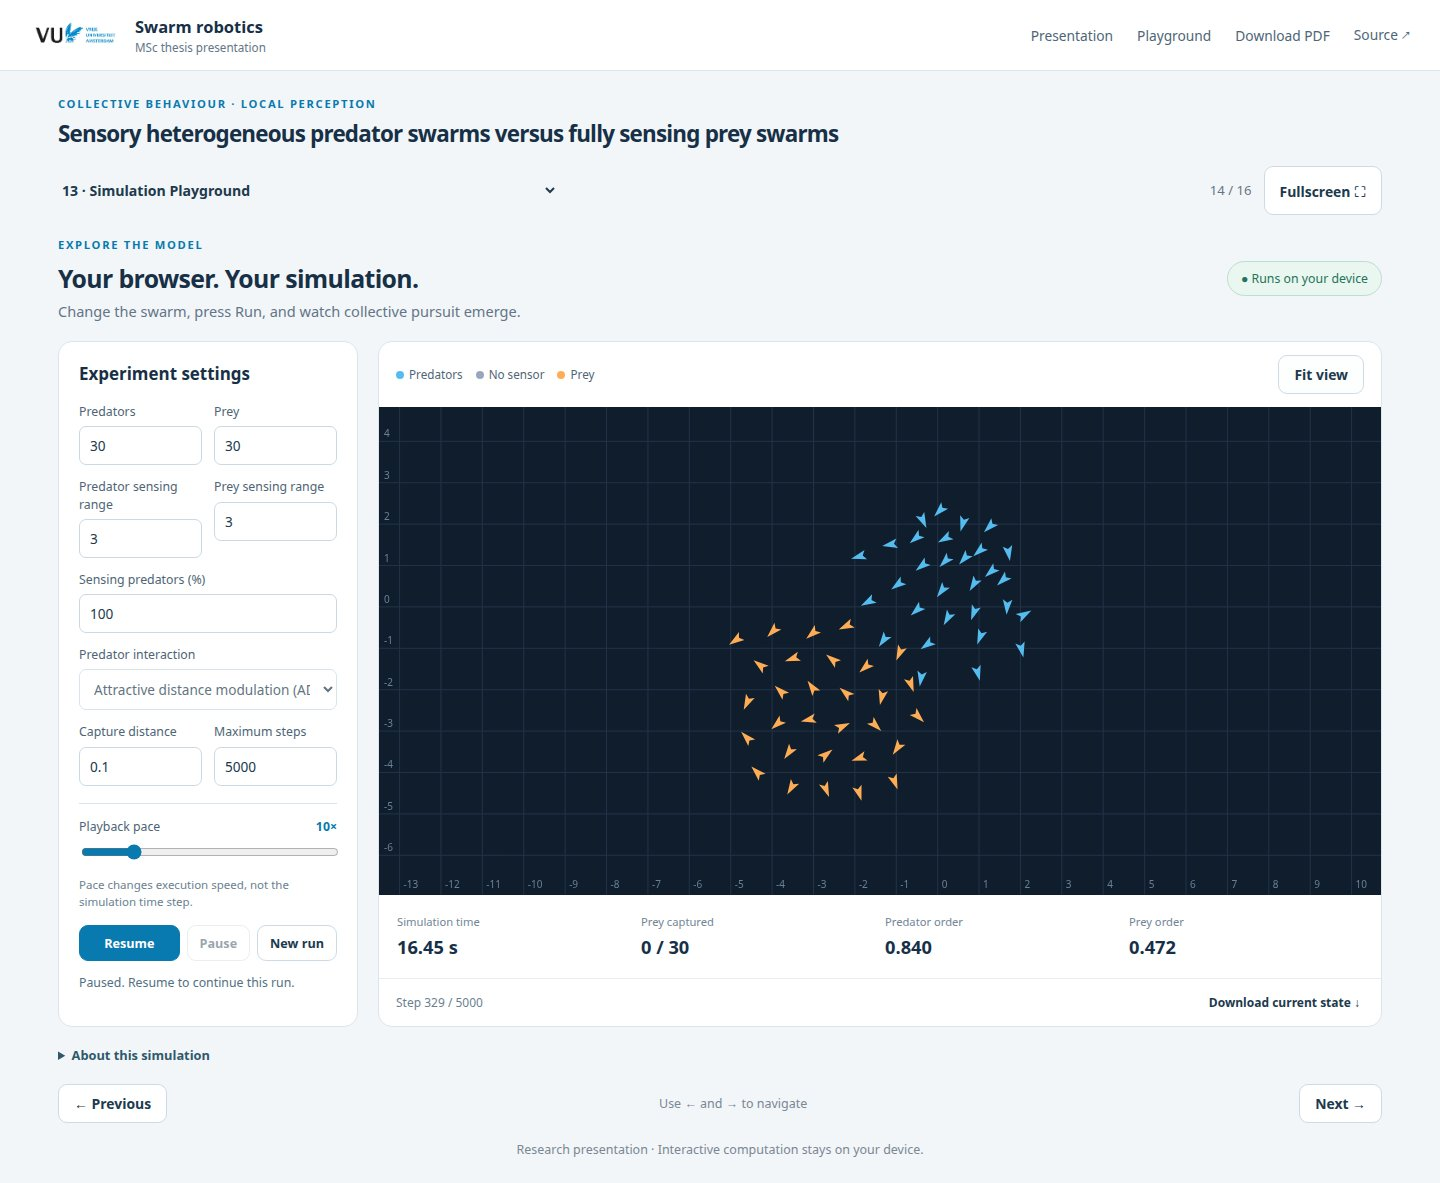
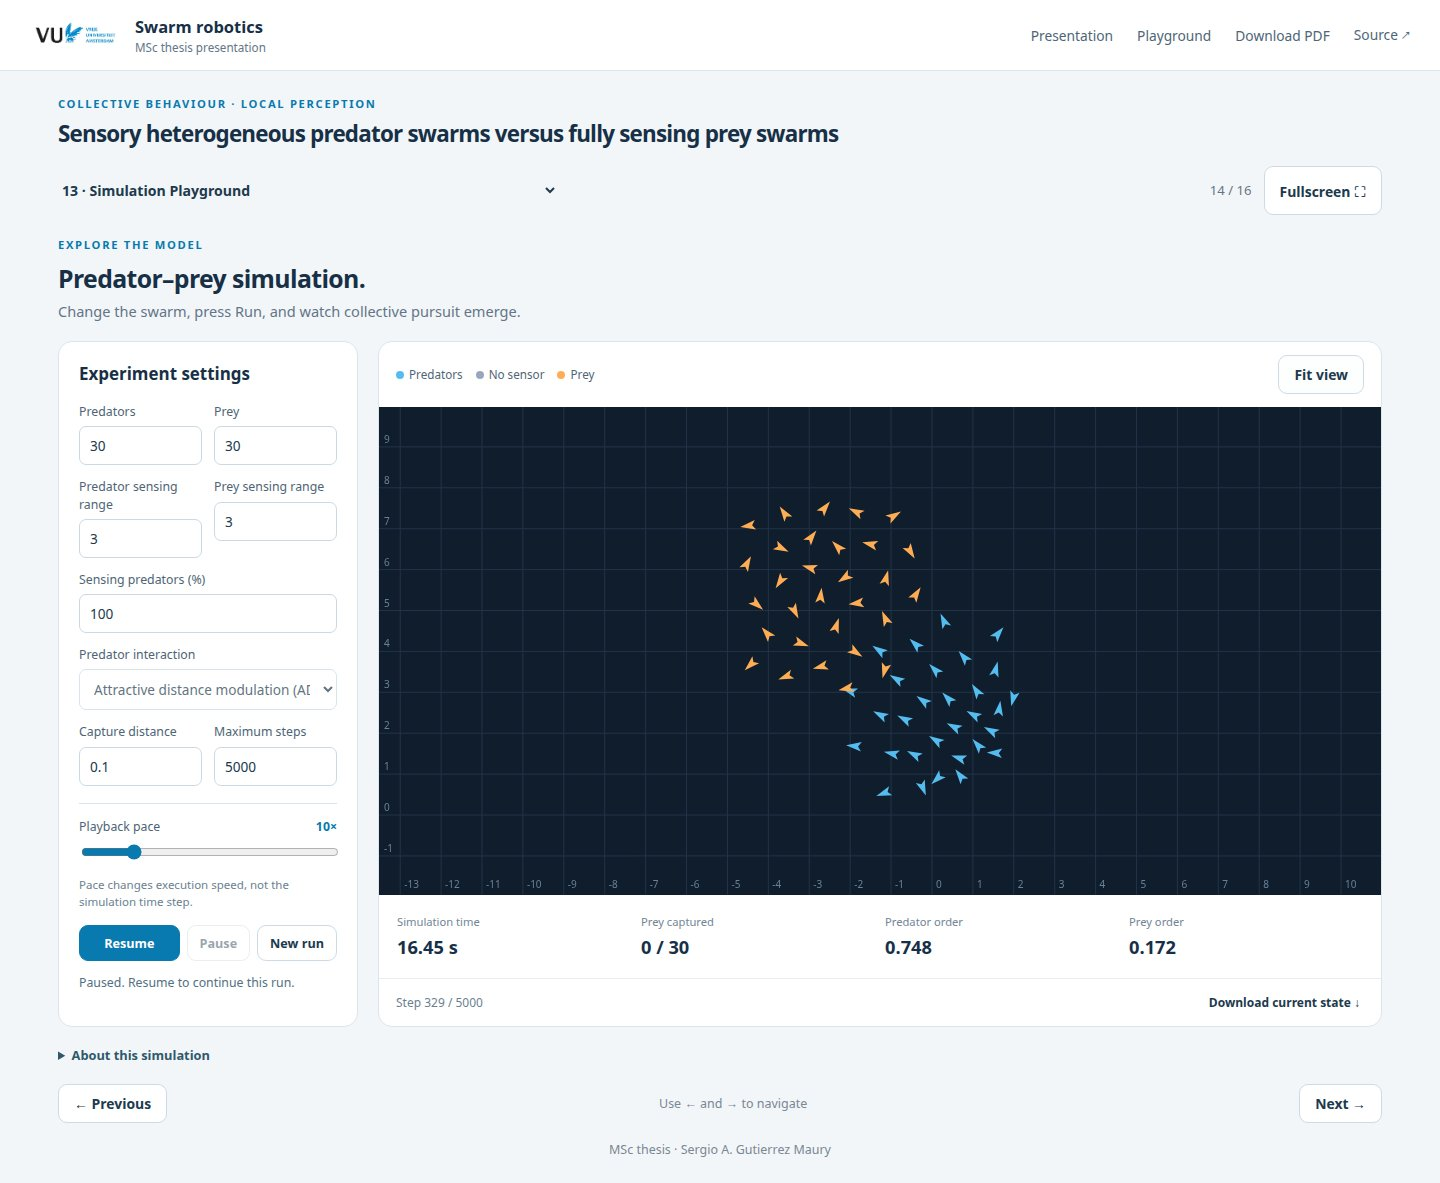
Remove local-computation messaging from the presentation

diff --git a/web/style.css b/web/style.css
@@ -5,8 +5,8 @@
 .slide-content div:has(> img + img) > img { width: calc(50% - 6px); height: auto; }
 *{box-sizing:border-box}body{margin:0}a{color:#087aa9;text-underline-offset:3px}button,input,select{font:inherit}button,select{cursor:pointer}button{background:#fff;border:1px solid #cedbe4;border-radius:9px;padding:9px 15px;color:#20394d;font-size:.87rem;font-weight:600;transition:background .15s}button:hover:not(:disabled){background:#eaf4f9}button:disabled{opacity:.45;cursor:default}button:focus-visible,a:focus-visible,input:focus-visible,select:focus-visible,summary:focus-visible{outline:3px solid #24a6d5;outline-offset:3px}.primary{background:#087aaf;color:white;border-color:#087aaf}.primary:hover:not(:disabled){background:#06688f}input,select{border:1px solid #cbd9e2;border-radius:7px;padding:9px 10px;background:white;color:#20394d;min-width:0}input[type=range]{padding:0;accent-color:var(--blue)}[hidden]{display:none!important}
 .site-header{background:#fff;border-bottom:1px solid var(--line);padding:15px max(24px,calc((100vw - 1380px)/2));display:flex;align-items:center;justify-content:space-between;gap:24px}.brand{display:flex;align-items:center;gap:14px;color:#173047;text-decoration:none;font-weight:750;font-size:1.03rem;white-space:nowrap}.brand img{width:91px;max-height:40px;object-fit:contain}.brand-sub{display:block;color:var(--muted);font-weight:400;font-size:.73rem;margin-top:2px}.site-header nav{display:flex;gap:24px;align-items:center;font-size:.86rem}.site-header nav a{color:#4f6577;text-decoration:none}.site-header nav a:hover{color:var(--blue)}main{max-width:1380px;padding:0 28px;margin:auto}.deck-heading{padding:34px 0 26px}.eyebrow{font-size:.7rem;letter-spacing:.15em;font-weight:750;color:#087aaf;margin:0 0 10px}h1{font-size:clamp(1.45rem,2.6vw,2.25rem);letter-spacing:-.035em;line-height:1.2;margin:0;max-width:1050px}h2{letter-spacing:-.025em;font-size:1.55rem;line-height:1.3}h3{font-size:1.06rem}.byline{font-size:.87rem;color:var(--muted);margin:13px 0 0}.slide-toolbar{display:flex;align-items:center;gap:12px;padding:0 0 12px}.slide-toolbar select{max-width:500px;font-size:.88rem;background:transparent;border:0;padding-left:0;font-weight:650}.slide-toolbar #slide-counter{margin-left:auto;color:var(--muted);font-size:.82rem;white-space:nowrap}.slide{background:#fff;border:1px solid var(--line);border-radius:15px;padding:28px 34px;min-height:360px;box-shadow:0 5px 22px #17304704}#slide-title{margin:0 0 22px;border-bottom:1px solid #e6edf2;padding-bottom:19px}#slide-title a{color:inherit;text-decoration:none}.slide-content{font-size:clamp(1rem,1.18vw,1.14rem);line-height:1.75}.slide-content [style*="font-size"]{font-size:inherit!important}.slide-content img{max-width:100%!important;max-height:410px!important;object-fit:contain;border-radius:6px;display:block;margin:10px auto!important}.slide-content a img{max-height:22px!important;display:inline-block;vertical-align:middle}.slide-content iframe{width:100%;max-width:100%;border:0;background:#fff;min-height:380px}.slide-content li{padding:5px 0}.slide-content p{margin-top:0}.slide-content h3{font-size:1.16rem;color:#173047;margin:0 0 10px}.slide-content .katex-display{overflow-x:auto;overflow-y:hidden;padding:12px 0}.slide-content .math-block{overflow-x:auto}.slide-content .katex{font-size:1.04em}.deck-footer{display:flex;justify-content:space-between;align-items:center;padding:18px 0;gap:15px}.deck-footer span,.site-footnote{color:#798795;font-size:.78rem}.site-footnote{text-align:center;margin:0 0 25px}.sr-only{position:absolute;width:1px;height:1px;padding:0;margin:-1px;overflow:hidden;clip:rect(0,0,0,0);white-space:nowrap;border:0}
-.playground-heading{display:flex;align-items:center;justify-content:space-between;margin:8px 0 20px;gap:20px}.playground-heading h2{margin:0 0 7px}.playground-heading p:not(.eyebrow){color:var(--muted);font-size:.91rem;margin:0}.local-badge{border:1px solid #b9dfd0;background:#e9f7f0;border-radius:30px;padding:8px 13px;color:#267359;font-size:.77rem;white-space:nowrap}.playground-grid{display:grid;grid-template-columns:300px minmax(0,1fr);gap:20px}.controls,.arena-panel{background:white;border:1px solid var(--line);border-radius:14px;overflow:hidden}.controls{padding:20px}.controls h3{margin:0 0 18px}.controls fieldset{border:0;padding:0;margin:0;min-width:0}.controls label{font-size:.77rem;line-height:1.4;color:#4e6476;display:flex;flex-direction:column;gap:6px;margin-bottom:13px}.controls input,.controls select{width:100%;font-size:.85rem}.field-pair{display:grid;grid-template-columns:1fr 1fr;gap:12px}.controls .pace-label{position:relative;border-top:1px solid var(--line);padding-top:14px;margin-top:4px}.pace-label output{position:absolute;right:0;top:14px;font-weight:700;color:var(--blue)}.hint{font-size:.72rem;color:#6b7f91;line-height:1.5;margin:0 0 15px}.run-buttons{display:flex;gap:7px;flex-wrap:wrap}.run-buttons button{font-size:.79rem;padding:8px 12px}.run-buttons #run{flex:1}#run-status{font-size:.77rem;color:#527083;min-height:2.6em;line-height:1.5;margin-bottom:0}#simulation-error{font-size:.79rem;color:#a82d2d;background:#fff0ed;padding:10px;border-radius:7px}.arena-panel{display:flex;flex-direction:column;min-width:0}.arena-toolbar{padding:13px 17px;display:flex;align-items:center;justify-content:space-between;gap:8px}.legend{display:flex;gap:13px;flex-wrap:wrap;font-size:.73rem;color:#4f6477}.legend span{display:flex;gap:5px;align-items:center}.legend i{display:inline-block;width:8px;height:8px;border-radius:50%}.pred-dot{background:#55bcef}.blind-dot{background:#99a7bd}.prey-dot{background:#ffad55}#arena{width:100%;height:440px;min-height:300px;background:#101d2d;flex:1;display:block;touch-action:none}.metrics{display:grid;grid-template-columns:repeat(4,1fr);gap:10px;padding:19px 18px;border-bottom:1px solid #e8eef3}.metrics span{display:block;color:#728496;font-size:.7rem;margin-bottom:6px}.metrics strong{font-variant-numeric:tabular-nums;font-size:1.14rem;font-weight:650}.arena-footer{padding:11px 17px;display:flex;justify-content:space-between;align-items:center;gap:10px;font-size:.75rem;color:#6b7f91}.arena-footer button{font-size:.75rem;border:0;padding:4px}.model-note{color:#637589;font-size:.8rem;line-height:1.65;margin-top:18px}.model-note summary{cursor:pointer;color:#2f586d;font-weight:600}.model-note p{max-width:1000px}.playground-mode .deck-heading{padding:25px 0 18px}.playground-mode h1{font-size:1.4rem}.playground-mode .wide-only{display:none}.playground-mode .byline{display:none}.playground-mode .slide{display:none}.playground-mode .slide-toolbar{margin-bottom:10px}
-@media(min-width:1500px){#arena{height:510px}}@media(max-width:900px){.site-header{padding:14px 20px}.site-header nav{gap:14px}.site-header nav .github{display:none}.brand-sub{display:none}.playground-grid{grid-template-columns:260px minmax(0,1fr);gap:13px}.controls{padding:16px}.metrics{grid-template-columns:1fr 1fr}.slide{padding:22px}.slide-content>div[style*="flex"]{flex-wrap:wrap}.slide-content>div>div{min-width:220px}}@media(max-width:680px){main{padding:0 15px}.brand>span{display:none}.brand img{width:72px}.site-header{gap:12px;padding:12px 15px}.site-header nav{font-size:.75rem;gap:13px}.deck-heading{padding:25px 0 20px}.wide-only{display:none}.slide-toolbar select{max-width:64%;font-size:.8rem}.slide-toolbar button{font-size:.72rem;padding:6px}.slide{padding:18px;min-height:300px}.slide-content>div{display:block!important}.slide-content img{max-height:290px!important}.slide-content iframe{height:450px!important;min-height:280px}.playground-grid{grid-template-columns:1fr}.arena-panel{order:-1}#arena{height:340px;flex:auto}.playground-heading{align-items:flex-start;flex-direction:column;gap:10px}.playground-heading h2{font-size:1.4rem}.local-badge{font-size:.7rem}.metrics{grid-template-columns:repeat(4,1fr);padding:14px 10px;gap:6px}.metrics span{font-size:.6rem}.metrics strong{font-size:.93rem}.controls fieldset{display:grid;grid-template-columns:1fr 1fr;gap:0 14px}.controls fieldset .field-pair{grid-column:1/-1}.deck-footer span{display:none}.model-note{font-size:.77rem}}@media(prefers-reduced-motion:reduce){*{scroll-behavior:auto!important;transition:none!important}}@media print{.site-header,.slide-toolbar,.deck-footer,.site-footnote{display:none}.slide{border:0;box-shadow:none}.deck-heading{padding-top:0}}
+.playground-heading{display:flex;align-items:center;justify-content:space-between;margin:8px 0 20px;gap:20px}.playground-heading h2{margin:0 0 7px}.playground-heading p:not(.eyebrow){color:var(--muted);font-size:.91rem;margin:0}.playground-grid{display:grid;grid-template-columns:300px minmax(0,1fr);gap:20px}.controls,.arena-panel{background:white;border:1px solid var(--line);border-radius:14px;overflow:hidden}.controls{padding:20px}.controls h3{margin:0 0 18px}.controls fieldset{border:0;padding:0;margin:0;min-width:0}.controls label{font-size:.77rem;line-height:1.4;color:#4e6476;display:flex;flex-direction:column;gap:6px;margin-bottom:13px}.controls input,.controls select{width:100%;font-size:.85rem}.field-pair{display:grid;grid-template-columns:1fr 1fr;gap:12px}.controls .pace-label{position:relative;border-top:1px solid var(--line);padding-top:14px;margin-top:4px}.pace-label output{position:absolute;right:0;top:14px;font-weight:700;color:var(--blue)}.hint{font-size:.72rem;color:#6b7f91;line-height:1.5;margin:0 0 15px}.run-buttons{display:flex;gap:7px;flex-wrap:wrap}.run-buttons button{font-size:.79rem;padding:8px 12px}.run-buttons #run{flex:1}#run-status{font-size:.77rem;color:#527083;min-height:2.6em;line-height:1.5;margin-bottom:0}#simulation-error{font-size:.79rem;color:#a82d2d;background:#fff0ed;padding:10px;border-radius:7px}.arena-panel{display:flex;flex-direction:column;min-width:0}.arena-toolbar{padding:13px 17px;display:flex;align-items:center;justify-content:space-between;gap:8px}.legend{display:flex;gap:13px;flex-wrap:wrap;font-size:.73rem;color:#4f6477}.legend span{display:flex;gap:5px;align-items:center}.legend i{display:inline-block;width:8px;height:8px;border-radius:50%}.pred-dot{background:#55bcef}.blind-dot{background:#99a7bd}.prey-dot{background:#ffad55}#arena{width:100%;height:440px;min-height:300px;background:#101d2d;flex:1;display:block;touch-action:none}.metrics{display:grid;grid-template-columns:repeat(4,1fr);gap:10px;padding:19px 18px;border-bottom:1px solid #e8eef3}.metrics span{display:block;color:#728496;font-size:.7rem;margin-bottom:6px}.metrics strong{font-variant-numeric:tabular-nums;font-size:1.14rem;font-weight:650}.arena-footer{padding:11px 17px;display:flex;justify-content:space-between;align-items:center;gap:10px;font-size:.75rem;color:#6b7f91}.arena-footer button{font-size:.75rem;border:0;padding:4px}.model-note{color:#637589;font-size:.8rem;line-height:1.65;margin-top:18px}.model-note summary{cursor:pointer;color:#2f586d;font-weight:600}.model-note p{max-width:1000px}.playground-mode .deck-heading{padding:25px 0 18px}.playground-mode h1{font-size:1.4rem}.playground-mode .wide-only{display:none}.playground-mode .byline{display:none}.playground-mode .slide{display:none}.playground-mode .slide-toolbar{margin-bottom:10px}
+@media(min-width:1500px){#arena{height:510px}}@media(max-width:900px){.site-header{padding:14px 20px}.site-header nav{gap:14px}.site-header nav .github{display:none}.brand-sub{display:none}.playground-grid{grid-template-columns:260px minmax(0,1fr);gap:13px}.controls{padding:16px}.metrics{grid-template-columns:1fr 1fr}.slide{padding:22px}.slide-content>div[style*="flex"]{flex-wrap:wrap}.slide-content>div>div{min-width:220px}}@media(max-width:680px){main{padding:0 15px}.brand>span{display:none}.brand img{width:72px}.site-header{gap:12px;padding:12px 15px}.site-header nav{font-size:.75rem;gap:13px}.deck-heading{padding:25px 0 20px}.wide-only{display:none}.slide-toolbar select{max-width:64%;font-size:.8rem}.slide-toolbar button{font-size:.72rem;padding:6px}.slide{padding:18px;min-height:300px}.slide-content>div{display:block!important}.slide-content img{max-height:290px!important}.slide-content iframe{height:450px!important;min-height:280px}.playground-grid{grid-template-columns:1fr}.arena-panel{order:-1}#arena{height:340px;flex:auto}.playground-heading{align-items:flex-start;flex-direction:column;gap:10px}.playground-heading h2{font-size:1.4rem}.metrics{grid-template-columns:repeat(4,1fr);padding:14px 10px;gap:6px}.metrics span{font-size:.6rem}.metrics strong{font-size:.93rem}.controls fieldset{display:grid;grid-template-columns:1fr 1fr;gap:0 14px}.controls fieldset .field-pair{grid-column:1/-1}.deck-footer span{display:none}.model-note{font-size:.77rem}}@media(prefers-reduced-motion:reduce){*{scroll-behavior:auto!important;transition:none!important}}@media print{.site-header,.slide-toolbar,.deck-footer,.site-footnote{display:none}.slide{border:0;box-shadow:none}.deck-heading{padding-top:0}}
 
 /* Keep canvas bitmap dimensions from feeding back into the flex layout. */
 .arena-view { position: relative; flex: 1; min-height: 440px; }

diff --git a/web/index.html b/web/index.html
@@ -3,7 +3,7 @@
 <head>
   <meta charset="utf-8">
   <meta name="viewport" content="width=device-width, initial-scale=1">
-  <meta name="description" content="Sergio A. Gutierrez Maury's predator–prey swarm research presentation and interactive simulator. Runs on your computer, in your browser.">
+  <meta name="description" content="Sergio A. Gutierrez Maury's predator–prey swarm research presentation and interactive simulator.">
   <title>Predator–prey dynamics · Thesis presentation</title>
   <link rel="icon" href="./assets/favicon.ico">
   <link rel="stylesheet" href="./vendor/katex.min.css">
@@ -20,7 +20,7 @@
     <div class="slide-toolbar"><label for="slide-select" class="sr-only">Choose slide</label><select id="slide-select"></select><span id="slide-counter" aria-live="polite"></span><button id="fullscreen" title="Enter fullscreen" type="button">Fullscreen ⛶</button></div>
     <article class="slide" aria-labelledby="slide-title"><h2 id="slide-title"></h2><div id="slide-content" class="slide-content"><p>Loading presentation…</p></div></article>
     <section id="playground" hidden aria-label="Simulation playground">
-      <div class="playground-heading"><div><p class="eyebrow">EXPLORE THE MODEL</p><h2>Your browser. Your simulation.</h2><p>Change the swarm, press Run, and watch collective pursuit emerge.</p></div><span class="local-badge">● Runs on your device</span></div>
+      <div class="playground-heading"><div><p class="eyebrow">EXPLORE THE MODEL</p><h2>Predator–prey simulation.</h2><p>Change the swarm, press Run, and watch collective pursuit emerge.</p></div></div>
       <div class="playground-grid">
         <form id="simulation-controls" class="controls">
           <h3>Experiment settings</h3>
@@ -34,16 +34,16 @@
           <label class="pace-label">Playback pace <output id="pace-label">10×</output><input id="pace" type="range" min="1" max="50" value="10" step="1"></label>
           <p class="hint">Pace changes execution speed, not the simulation time step.</p>
           <div class="run-buttons"><button class="primary" id="run" type="submit" disabled>Loading simulator…</button><button id="pause" type="button" disabled>Pause</button><button id="reset" type="button" disabled>New run</button></div>
-          <p id="run-status" role="status" aria-live="polite">Preparing local simulator.</p><p id="simulation-error" role="alert" hidden></p>
+          <p id="run-status" role="status" aria-live="polite">Preparing simulation.</p><p id="simulation-error" role="alert" hidden></p>
         </form>
         <div class="arena-panel"><div class="arena-toolbar"><div class="legend"><span><i class="pred-dot"></i>Predators</span><span><i class="blind-dot"></i>No sensor</span><span><i class="prey-dot"></i>Prey</span></div><button id="fit" type="button">Fit view</button></div><div class="arena-view"><canvas id="arena" aria-label="Live predator and prey positions with heading arrows"></canvas></div><div class="metrics"><div><span>Simulation time</span><strong id="sim-time">0.00 s</strong></div><div><span>Prey captured</span><strong id="captured">0 / 30</strong></div><div><span>Predator order</span><strong id="pred-order">—</strong></div><div><span>Prey order</span><strong id="prey-order">—</strong></div></div><div class="arena-footer"><span id="step-count">Step 0</span><button id="export" type="button" disabled>Download current state ↓</button></div></div>
       </div>
-      <details class="model-note"><summary>About this simulation</summary><p>This playground uses the original DM/ADM model described in this presentation. Prey use DM and respond to nearby predators. Captured prey leave the active swarm.</p><p>Each new run uses fresh randomness. Pause preserves the current run; New run draws new initial conditions. Download exports the current state and parameters, not a complete trajectory.</p><p>Heading order measures directional agreement (0–1), not whether agents move towards prey. The model includes motion noise and an unbounded arena. Small floating-point differences and a different random-number generator mean browser trajectories need not match Python trajectories for a numeric seed.</p></details>
+      <details class="model-note"><summary>About this simulation</summary><p>This playground uses the original DM/ADM model described in this presentation. Prey use DM and respond to nearby predators. Captured prey leave the active swarm.</p><p>Each new run uses fresh randomness. Pause preserves the current run; New run draws new initial conditions. Download exports the current state and parameters, not a complete trajectory.</p><p>Heading order measures directional agreement (0–1), not whether agents move towards prey. The model includes motion noise and an unbounded arena.</p></details>
     </section>
     <footer class="deck-footer"><button id="previous" type="button">← Previous</button><span>Use ← and → to navigate</span><button id="next" type="button">Next →</button></footer>
-    <p class="site-footnote">Research presentation · Interactive computation stays on your device.</p>
+    <p class="site-footnote">MSc thesis · Sergio A. Gutierrez Maury</p>
   </main>
-  <noscript>This presentation requires JavaScript to display slides and run the local simulator. <a href="./assets/presentation.pdf">Download the PDF</a>.</noscript>
+  <noscript>This presentation requires JavaScript to display slides and run the simulator. <a href="./assets/presentation.pdf">Download the PDF</a>.</noscript>
   <script type="module" src="./app.js"></script>
 </body>
 </html>

diff --git a/web/app.js b/web/app.js
@@ -70,7 +70,7 @@ function showSlide() {
   document.body.classList.toggle('playground-mode', playground);
   $('playground').hidden = !playground;
   $('slide-title').replaceChildren(render(slides[index].title));
-  // Slide 13's old hosting warning is superseded by the local playground.
+  // Slide 13 contains the interactive playground.
   $('slide-content').replaceChildren(...(playground ? [] : [render(slides[index].content)]));
   $('slide-select').value = String(index);
   $('slide-counter').textContent = `${index + 1} / ${slides.length}`;
@@ -108,8 +108,8 @@ function setStatus(next) {
   $('run').textContent = !workerReady ? 'Loading simulator…' : next === 'paused' ? 'Resume' : next === 'complete' ? 'Run again' : 'Run';
   $('pause').disabled = next !== 'running'; $('reset').disabled = !workerReady;
   $('export').disabled = !latest;
-  const messages = { ready: 'Ready. Press Run to begin.', running: 'Running on your device.', paused: 'Paused. Resume to continue this run.', complete: latest?.[4] >= latest?.[3] ? 'Finished: all prey captured.' : 'Finished: step limit reached.', error: 'Simulation stopped.' };
-  const message = messages[next] || 'Preparing local simulator.';
+  const messages = { ready: 'Ready. Press Run to begin.', running: 'Running.', paused: 'Paused. Resume to continue this run.', complete: latest?.[4] >= latest?.[3] ? 'Finished: all prey captured.' : 'Finished: step limit reached.', error: 'Simulation stopped.' };
+  const message = messages[next] || 'Preparing simulation.';
   if ($('run-status').textContent !== message) $('run-status').textContent = message;
 }
 function fail(message) { $('simulation-error').hidden = false; $('simulation-error').textContent = message; setStatus('error'); }

diff --git a/tests/browser/presentation.spec.js b/tests/browser/presentation.spec.js
@@ -36,7 +36,7 @@ test('WASM runs locally, pauses, resumes, exports, resets and obeys the step lim
   await page.locator('input[name=prey]').fill('7');
   await page.locator('input[name=sensing]').fill('50');
   await page.locator('#run').click();
-  await expect(page.locator('#run-status')).toHaveText('Running on your device.');
+  await expect(page.locator('#run-status')).toHaveText('Running.');
   await expect(page.locator('#step-count')).not.toHaveText('Step 0 / 5000');
   await page.locator('#pause').click();
   await expect(page.locator('#run')).toHaveText('Resume');

diff --git a/web/simulation-worker.js b/web/simulation-worker.js
@@ -4,7 +4,7 @@ const ready = (async () => {
   core = result.instance.exports;
   postMessage({ type: 'ready' });
 })();
-ready.catch(error => postMessage({ type: 'error', message: `Could not load the local simulator: ${error.message}` }));
+ready.catch(error => postMessage({ type: 'error', message: `Could not load the simulator: ${error.message}` }));
 
 function frame() {
   const ptr = core.simulation_snapshot();

diff --git a/README.md b/README.md
@@ -1,15 +1,15 @@
 # Predator–prey swarm presentation
 
 Interactive MSc thesis presentation by Sergio A. Gutierrez Maury. Explore the
-published DM/ADM model with a Rust/WebAssembly simulation running in your browser.
+published DM/ADM model through an interactive predator–prey simulation.
 
 [**Open the presentation**](https://sergi095.github.io/Thesis_presentation/)
 · [**Try the simulation**](https://sergi095.github.io/Thesis_presentation/#/13)
 · [Deployment](https://github.com/Sergi095/Thesis_presentation/actions/workflows/pages.yml)
 
-![The browser presentation and interactive swarm simulator](docs/presentation-preview.jpg)
+![The presentation and interactive swarm simulator](docs/presentation-preview.jpg)
 
-## Local development
+## Development
 
 Use Node.js 22.12 or newer and Rust (CI uses 1.94.1).
 
